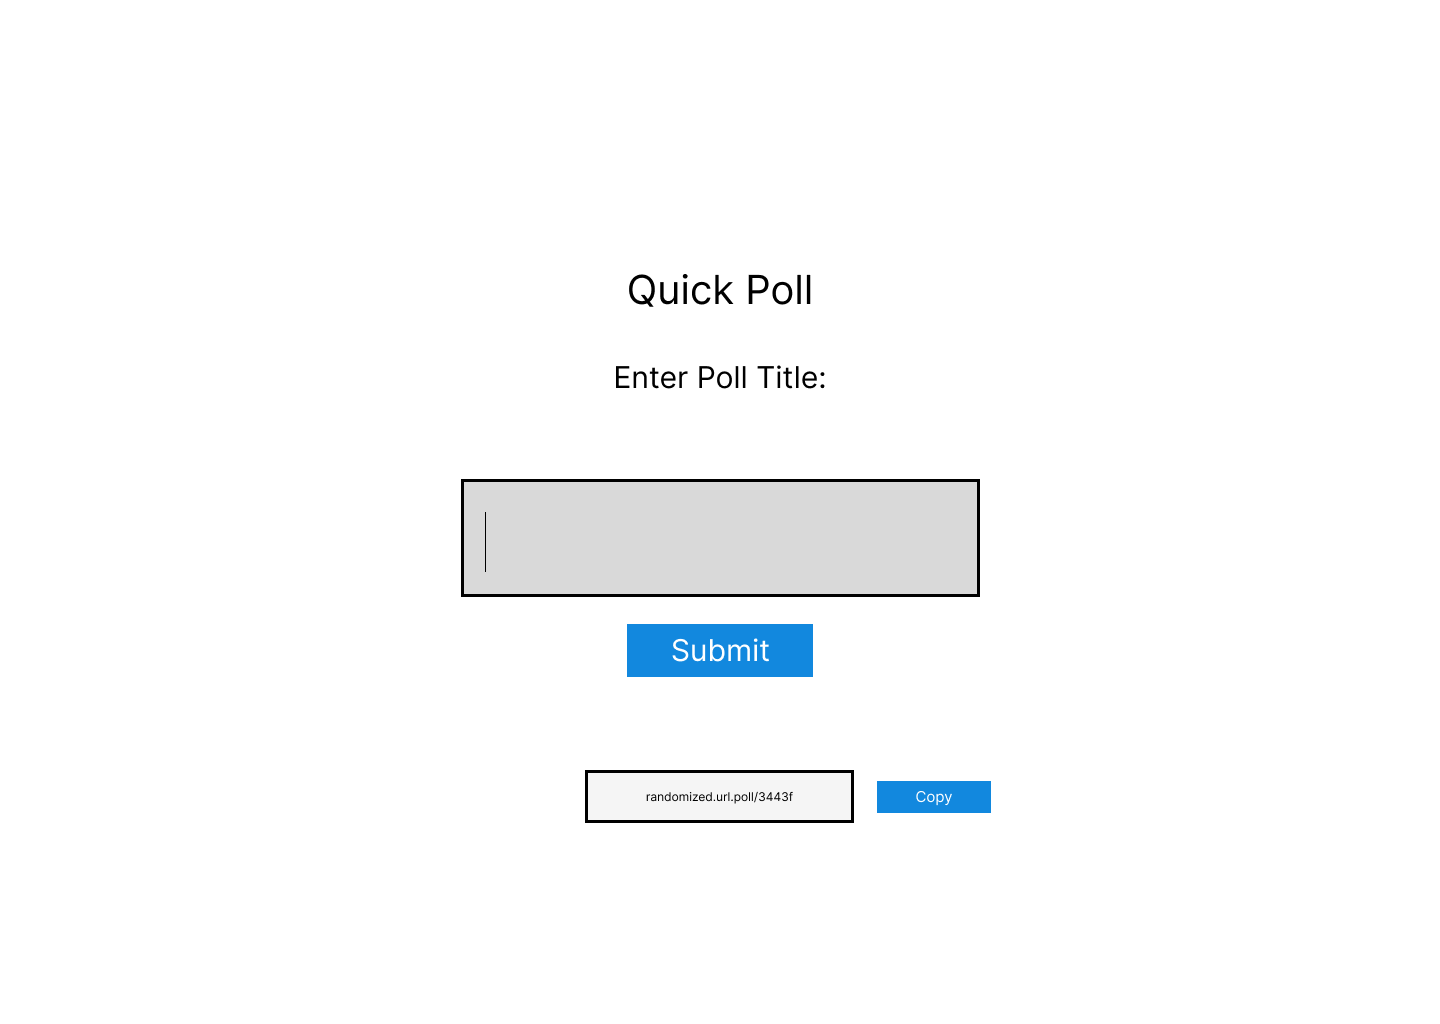
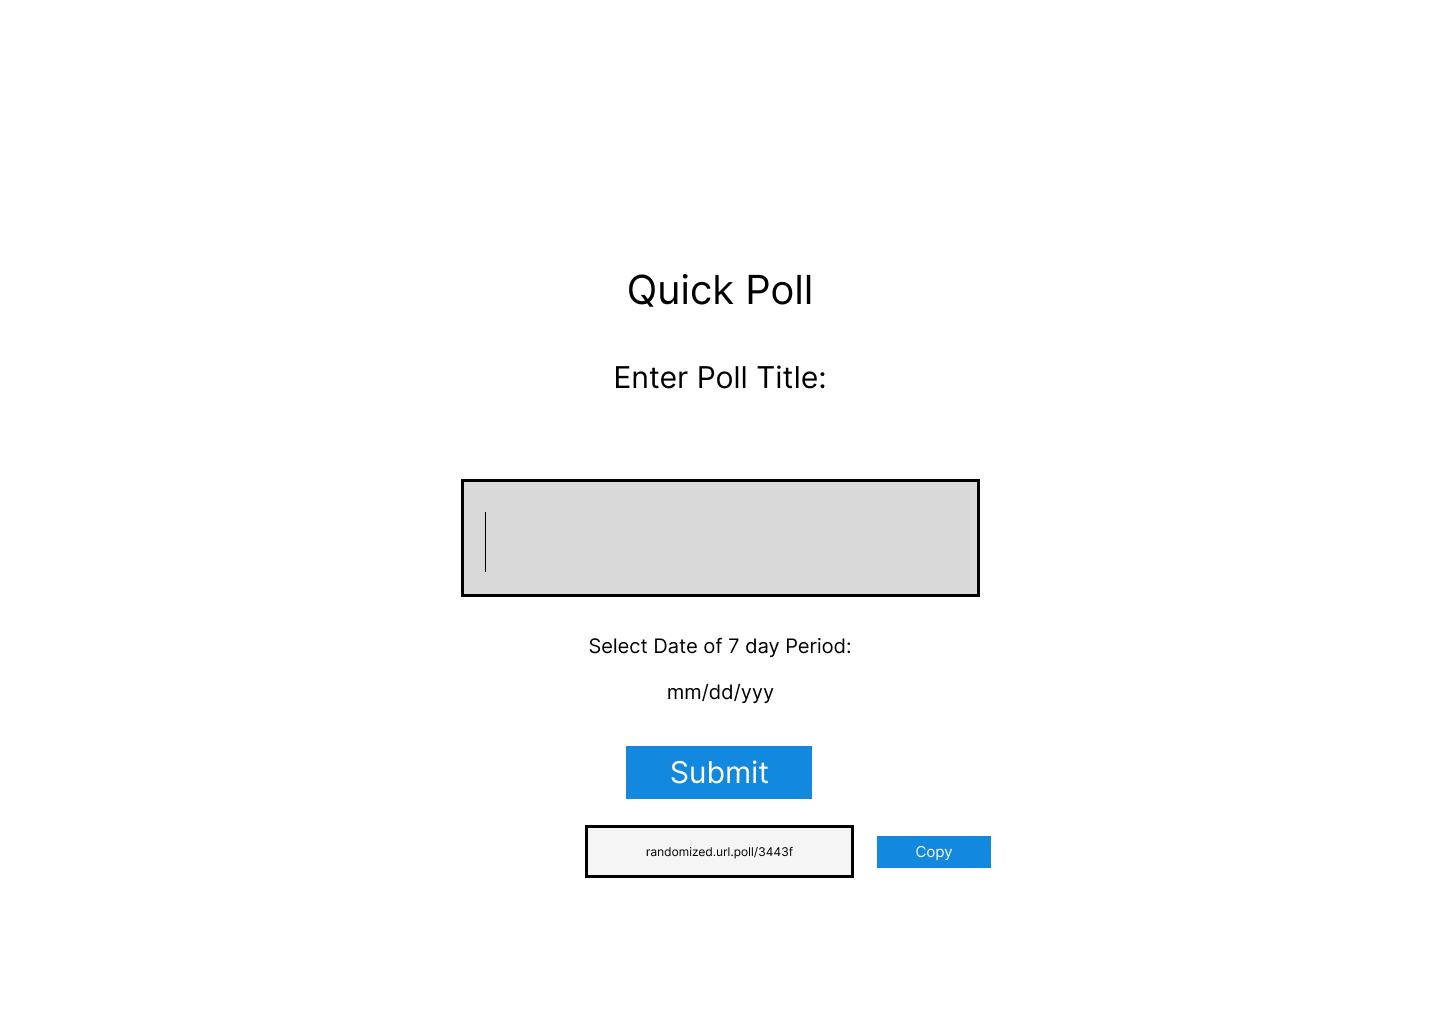
created results table

diff --git a/app/components/PollInstance.js b/app/components/PollInstance.js
@@ -18,50 +18,64 @@ export default function PollInstance(){
         <>
     
             <Title title={title}/>
-            <div className="mt-[5rem] flex flex-row justify-center">
+            <div className="mt-[5rem] flex flex-row justify-center border border-black">
                 <form>
-                    <label
-                        className=""
-                        htmlFor="date"
-                    >Date: 
-                    </label>
-                    <input
-                        className=""
-                        type="date"
-                        id="date"
-                    />
+                    <div className="py-5">
+                        <label
+                            className="pr-2"
+                            htmlFor="name"
+                        >Name: 
+                        </label>
+                        <input 
+                            className="border border-black"
+                            type="text"
+                        />
+                    </div>
 
-                    <label
-                        className=""
-                        htmlFor="time"
-                    >Start: 
-                    </label>
-                    <input
-                        className=""
-                        type="time"
-                    />
+                    <div className="grid grid-flow-col gap-8">
+                        <label
+                            className=""
+                            htmlFor="date"
+                        >Date: 
+                        </label>
+                        <input
+                            className=""
+                            type="date"
+                            id="date"
+                        />
 
-                    <label
-                        className=""
-                        htmlFor="time"
-                    >End: 
-                    </label>
-                    <input
-                        className=""
-                        type="time"
-                    />
+                        <label
+                            className=""
+                            htmlFor="time"
+                        >Start: 
+                        </label>
+                        <input
+                            className=""
+                            type="time"
+                        />
 
-                    <label
-                        className=""
-                        htmlFor="time"
-                    >Ideal Length: 
-                    </label>
-                    <input
-                        className="w-20 border-b border-black text-center"
-                        type="number"
-                        max={60}
-                    />
-                    Minutes
+                        <label
+                            className=""
+                            htmlFor="time"
+                        >End: 
+                        </label>
+                        <input
+                            className=""
+                            type="time"
+                        />
+
+                        <label
+                            className=""
+                            htmlFor="time"
+                        >Ideal Length: 
+                        </label>
+                        <input
+                            className="w-20 border-b border-black text-center"
+                            type="number"
+                            max={60}
+                        />
+                        Minutes
+                    </div>
 
                     <div className="flex justify-center">
                         <button

diff --git a/app/components/Submitted.js b/app/components/Submitted.js
@@ -1,41 +1,29 @@
 'use client'
-
+import { userData1 } from "./userData";
 import Table from "./Table";
 import Title from "./Title";
-import { useState } from "react";
+import { useState, useEffect } from "react";
 
 export default function Submitted() {
-    const color = "text-sky-600"
-    const [ submissions, setSubmissions ] = useState([{
-                                                        Name: "Christino",
-                                                        start: "11am",
-                                                        end: "1:30pm",
-                                                        IdealLength: 10,
-                                                      },
-                                                      {
-                                                        Name: "Lorenzo",
-                                                        start: "5pm",
-                                                        end: "6:30pm",
-                                                        IdealLength: 20,
-                                                      }])
+    
+    const [ data, setData ] = useState([])
+
+    useEffect(() => {
+        setData(userData1)
+    } ,[])
+    
+    const days = ['Sunday', 'Monday', 'Tuesday', 'Wednesday',
+    'Thursday', 'Friday', 'Saturday']
     return(
         <>
             <Title title={"Title"}/>
 
             <h1 className="text-[4.5rem] text-center text-sky-500 mt-[6rem]">Submitted!</h1>
 
-            <div className="flex justify-center border border-blue-500 mt-[5rem] mx-[4rem] ">
+            <div className="flex justify-center mt-[5rem] mx-[4rem] ">
                 
-                <div className="w-1/2  border border-orange-500">
-                    <h1 className="text-2xl">Results</h1>
-                    {/**{
-                        submissions.map((e) => (
-                            <div key={e} className="p-2 m-2">
-                                <p key={e.Name}>Name: {e.Name}</p>
-                                <p key={e.IdealLength}>Ideal Length: {e.IdealLength}</p>
-                            </div>
-                        ))
-                    }*/}
+                <div className="w-1/2">
+                    <h1 className="text-2xl text-center">Results</h1>                  
                     <Table/>
                 </div>
 
@@ -44,3 +32,20 @@ export default function Submitted() {
         </>
     )
 }
+                    /**<div className="grid grid-flow-row border border-black m-2 p2">
+                        {
+                            userData1.map((day, index) =>
+                                <div className='grid grid-cols-5 even:bg-sky-400 odd:bg-white'>
+                                    <div className="col-span-1 min-h-[2rem]" key={index}>
+                                        {day}
+                                    </div>
+
+                                    <div className="col-span-4 min-h-[2rem]" key={index}>
+                                        {userData1.map((data, index) =>
+                                            <p key={index}>{data.name}: </p>
+                                        )}
+                                    </div>
+                                </div>
+                            )
+                        }
+                    </div>*/

diff --git a/app/components/CreatePoll.js b/app/components/CreatePoll.js
@@ -18,22 +18,44 @@ export default function CreatePoll(){
                     </p>
                 </div>
                 <form className="flex flex-col">
-                    <div>
-                    <label
-                        className="text-[2rem] mt-9 mb-11 justify-center flex"
-                        htmlFor="title">Enter Poll Title:</label>
+                    <div className="text-center">
+                        <label
+                            className="text-[2rem] mt-9 mb-11 ml-7"
+                            htmlFor="title">Enter Poll Title:
+                        </label>
                     </div>
 
                     <div className="justify-center flex">
-                    <input
-                        required
-                        placeholder="Title"
-                        type="text"
-                        id="title"
-                        value={title}
-                        onChange={(e) => setTitle(e.target.value)}
-                        className="border border-black w-[20rem] h-20 m-2 p-2 bg-gray-400 text-white text-2xl placeholder:text-white"
+                        <input
+                            className="border border-black w-[20rem] h-20 m-2 p-2 bg-gray-400 text-white text-2xl placeholder:text-white"
+                            required
+                            placeholder="Title"
+                            type="text"
+                            id="title"
+                            value={title}
+                            onChange={(e) => setTitle(e.target.value)}
                         />
+                    </div>
+
+                    <div className="flex justify-center py-7">
+
+                        <div className="grid-flow-col">
+                            <div className="">
+                                <label
+                                    className="pr-[4rem]"
+                                    htmlFor="date"
+                                >Start Date of 7 day Period:
+                                </label>
+                            </div>
+                            
+                            <div className="pl-[5.5rem]">
+                                <input
+                                    className="border border-black w-[10rem]"
+                                    type="date"
+                                />
+                            </div>
+                        </div>
+                            
                     </div>
 
                     <div className="justify-center flex">

diff --git a/app/components/Table.js b/app/components/Table.js
@@ -1,25 +1,36 @@
 'use client'
 
-import { useState } from 'react'
+import { useState, useEffect } from 'react'
+import { userData1 } from "./userData";
+
 
 export default function Table(){
-    const [ day, setDay ] = useState([
-        "Monday",
-        "Tuesday",
-        "Wednesday",
-        "Thursday",
-        "Friday",
-        "Saturday",
-        "Sunday"
-    ])
+    const [ data, setData ] = useState([])
+
+    useEffect(() => {
+        setData(userData1)
+    } ,[])
+    
+    const days = ['Sunday', 'Monday', 'Tuesday', 'Wednesday',
+    'Thursday', 'Friday', 'Saturday']
 
     return (
-    <div className="grid grid-flow-row border border-black m-2 p2  ">
-        {
-            day.map((data, index) =>
-            <div className="even:bg-sky-400 odd:bg-white" key={index}>{data}</div>
-            )
-        }
+    <div className="grid grid-flow-col border border-black m-2 p2">
+        <div className='grid grid-row-7'>
+            {
+                days.map((day, index) =>
+                        <div className="col-span-1 min-h-[2rem] even:bg-sky-400 odd:bg-white" key={index}>
+                            {day}
+                        </div>
+                )
+            }
+        </div>
+
+        <div className="col-span-4 min-h-[2rem]">
+            {data.map((data, index) =>
+                <p className='even:bg-sky-400 odd:bg-white min-h-[4rem]' key={index}> {data[0]} <br/> {data[1]} - {data[1]} <br/> Ideal Length: {data[2]} </p>
+            )}
+        </div>
     </div>
     )
 }
